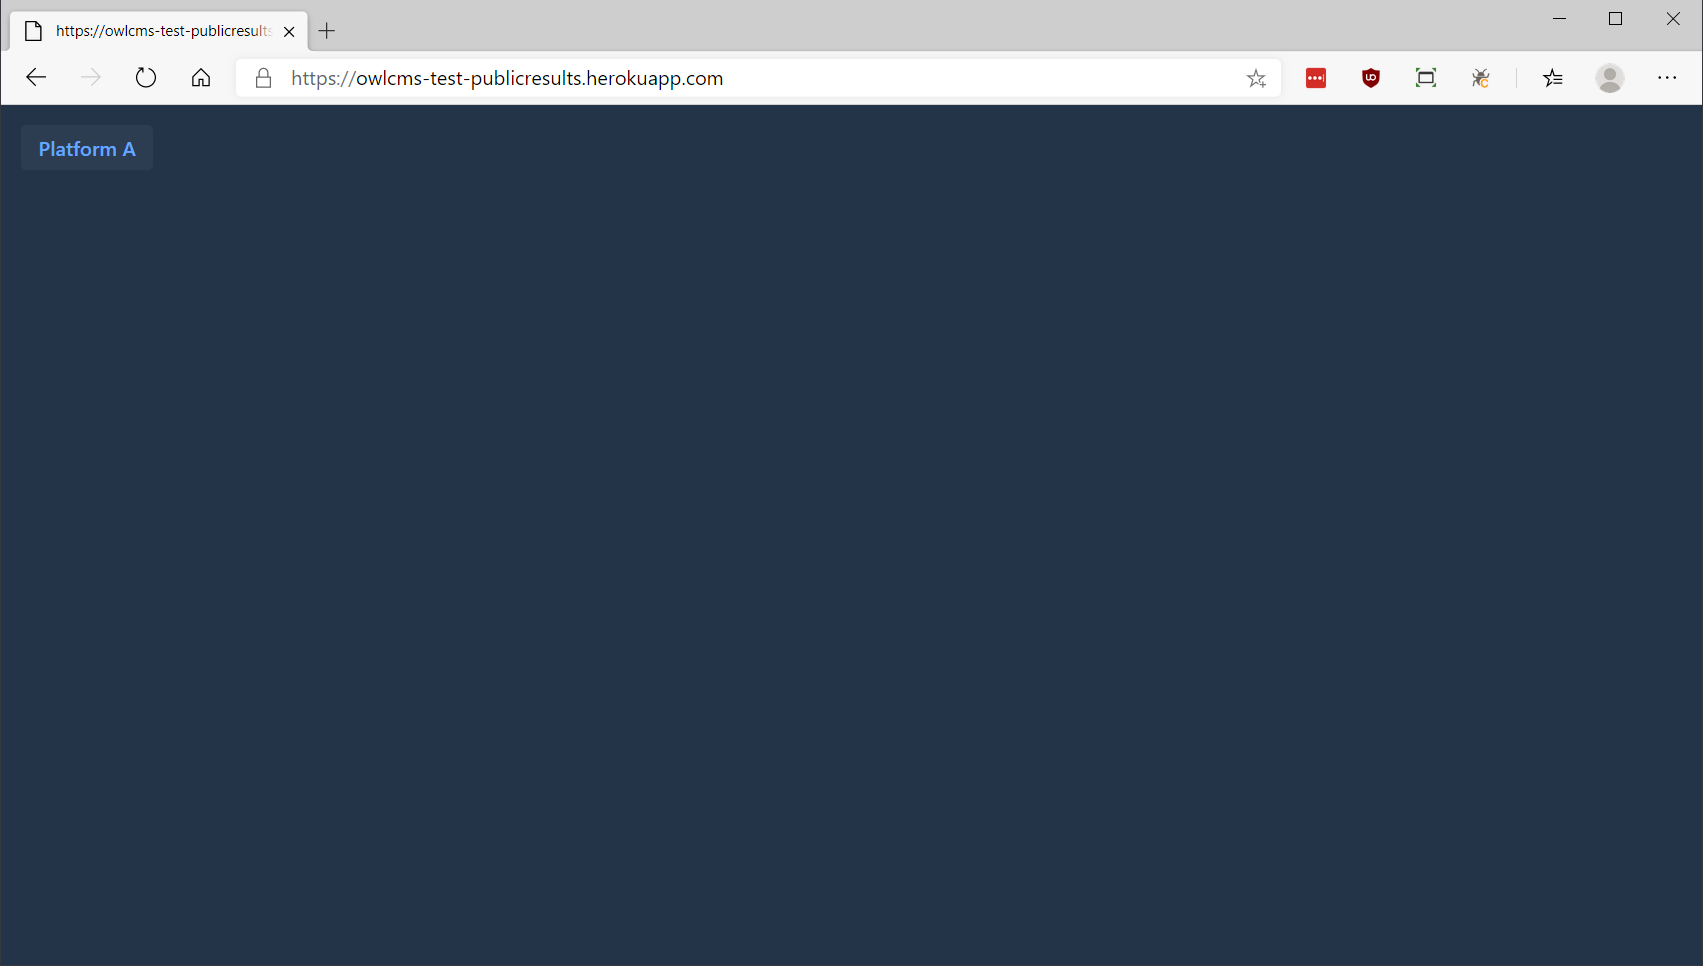
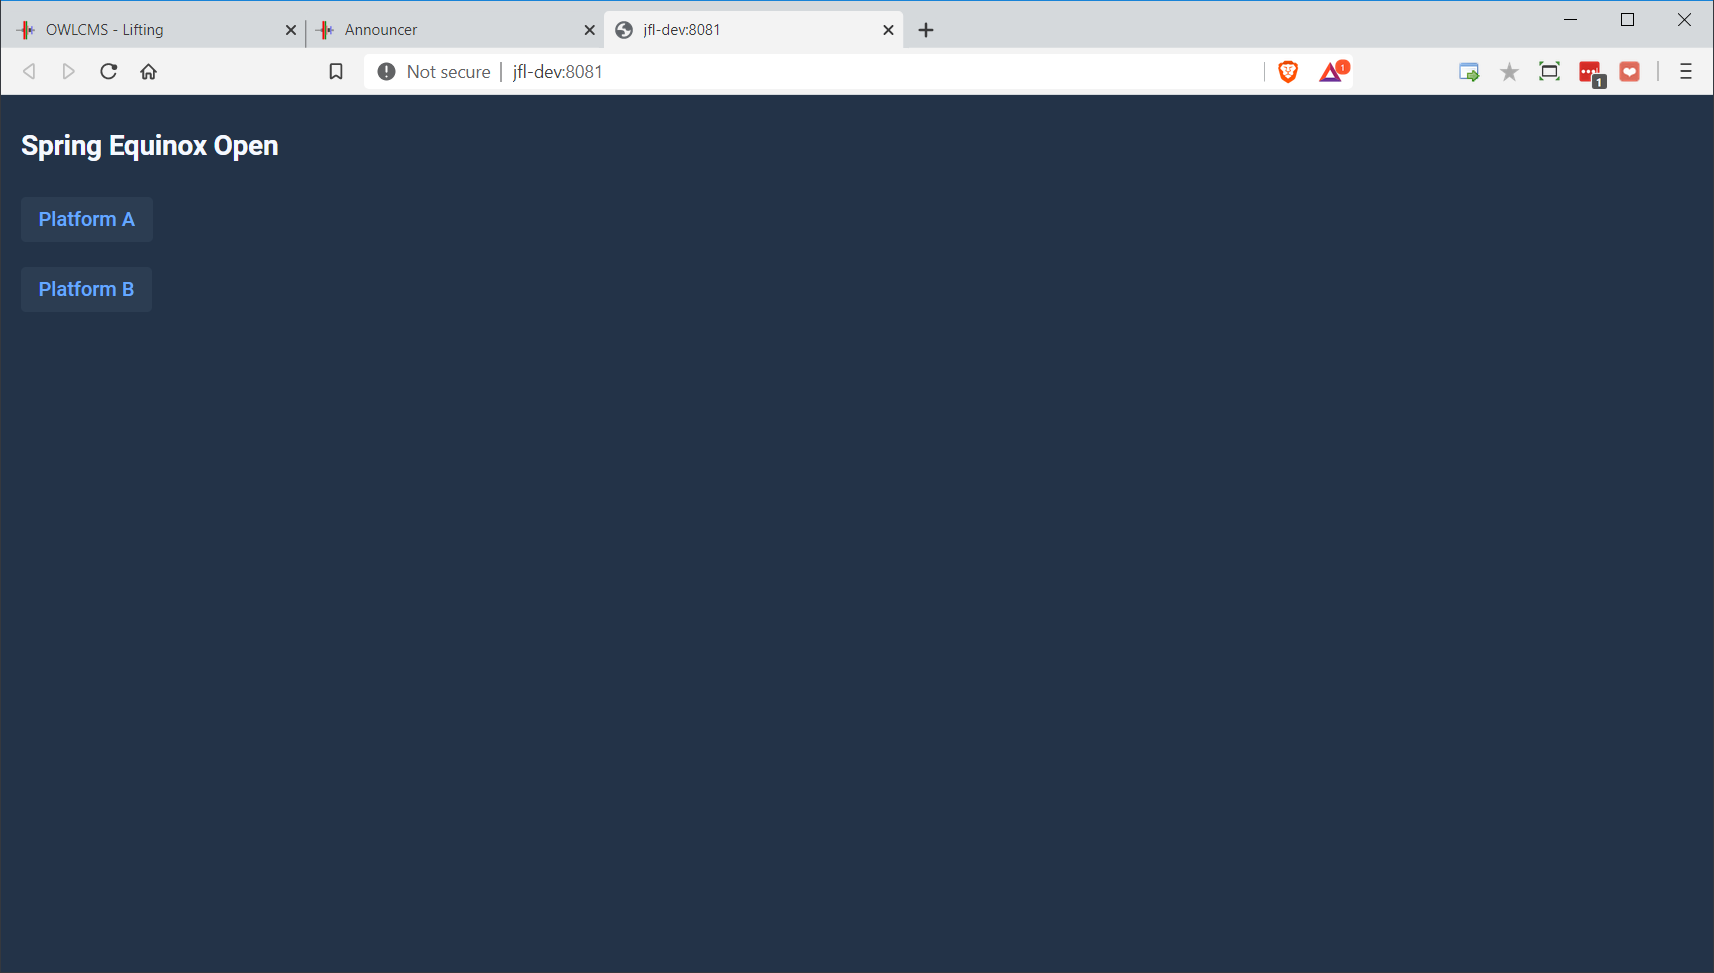
#295 Show competition name instead of blank screen on scoreboard.

Changed region(s): [[0.0, 0.0, 1.0, 0.1863], [0.0, 0.2174, 0.0934, 0.2484], [0.0311, 0.2795, 0.0934, 0.3106]]

diff --git a/docs/Remote.md b/docs/Remote.md
@@ -57,11 +57,11 @@ You should therefore have something similar to the following in your file.  On a
 1. Start the remote application.  Just accessing the URL is enough -- it will restart the application if it was shut down due to inactivity (on the free Heroku subscription, the remote application will go to sleep if unused for an hour).  During a competition, there will be frequent updates, so there is no chance of this happening. 
 2. Start the competition site application as usual, and get the the announcer to select a group,
    ![057_startLifting](img/PublicResults/057_startLifting.png)
-1. The public results application will now show that there is a platform active.
+1. The public results application will now show that there are active platforms.
 ![055_updateReceivedHome](img/PublicResults/055_updateReceivedHome.png)
-1. Clicking on the `Platform A` link leads to the blank scoreboard, since the announcer has not started a countdown and has not started lifting. 
+1. Clicking on the `Platform A` link leads to a generic waiting page, until the announcer starts the countdown to the introduction or starts the competition group. 
 ![056_updateReceivedFOP](img/PublicResults/056_updateReceivedFOP.png)
-1. As soon as a break or lifting starts, the competition site updates the remote application.  From then on the scoreboard updates whenever a pertinent change happens.  Note that in the first release the scoreboard clock only shows the time allocated for the lift, and does not count down, and that decision lights are not shown.
+1. As soon as a break or lifting event happens, the competition site updates the remote application.  From then on the scoreboard updates whenever a pertinent change happens.  Note that in the first release the scoreboard clock only shows the time allocated for the lift, and does not count down, and that decision lights are not shown.
 ![058_liftingStarted](img/PublicResults/058_liftingStarted.png)
 ## Updating the application
 When testing in the days leading to a competition, it is wise to update both the OWLCMS4 application and the remote public results server.
